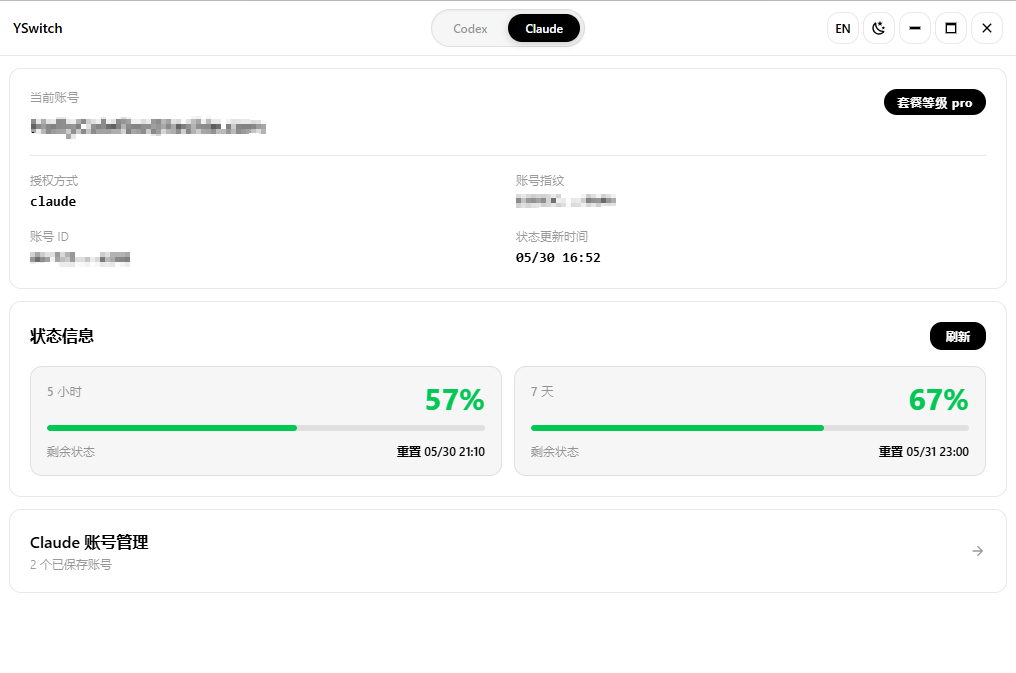
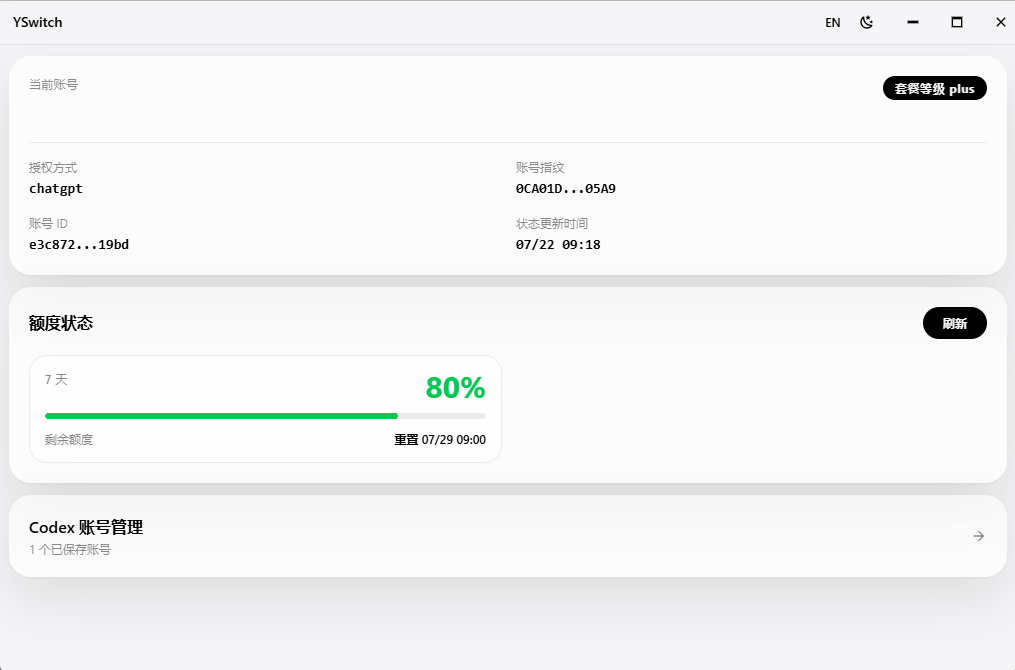
doc:更新文档

diff --git a/README_EN.md b/README_EN.md
@@ -15,9 +15,9 @@
 ## Features
 
 - **Account Saving**: Save the current logged-in Codex account credentials to a local account library, supporting multiple accounts.
-- **One-Click Switching**: Select the target account and click Switch — the tool automatically replaces the local credential files and restarts the corresponding client, no manual steps required.
+- **One-Click Switching**: Select the target account and click Switch — the tool automatically replaces the local credential file and restarts Codex, no manual steps required.
 - **Quota Viewing**: View the plan type and remaining quota for each account (based on locally saved credentials; if a token has expired, switch to that account first before refreshing — see note below).
-- **Local Vault**: Saved account files stay on your machine. Quota refresh uses the corresponding official service API only.
+- **Local Vault**: Saved account files stay on your machine. Quota refresh uses only the official ChatGPT quota endpoint.
 
 ---
 
@@ -45,11 +45,7 @@ To get the latest quota for a specific account, **switch to that account first**
 
 ## Login Method
 
-**This tool does not implement any login logic. All logins are completed through the official clients.**
-
-| Account Type | Login Method |
-|-------------|-------------|
-| **Codex** | Log in via the official Codex desktop client |
+**This tool does not implement any login logic. All logins are completed through the official Codex desktop client.**
 
 After logging in, YSwitch reads, backs up, and replaces Codex credential files locally. When you refresh quota, it sends the access token only to the official ChatGPT quota endpoint; it does not upload credentials to any third-party server.
 
@@ -78,8 +74,6 @@ wails build
 ---
 
 ## Usage
-
-### Codex Accounts
 
 1. Log in to account A via the official Codex desktop client, then open YSwitch.
 2. Click **Save Current Account** to store account A in the library.